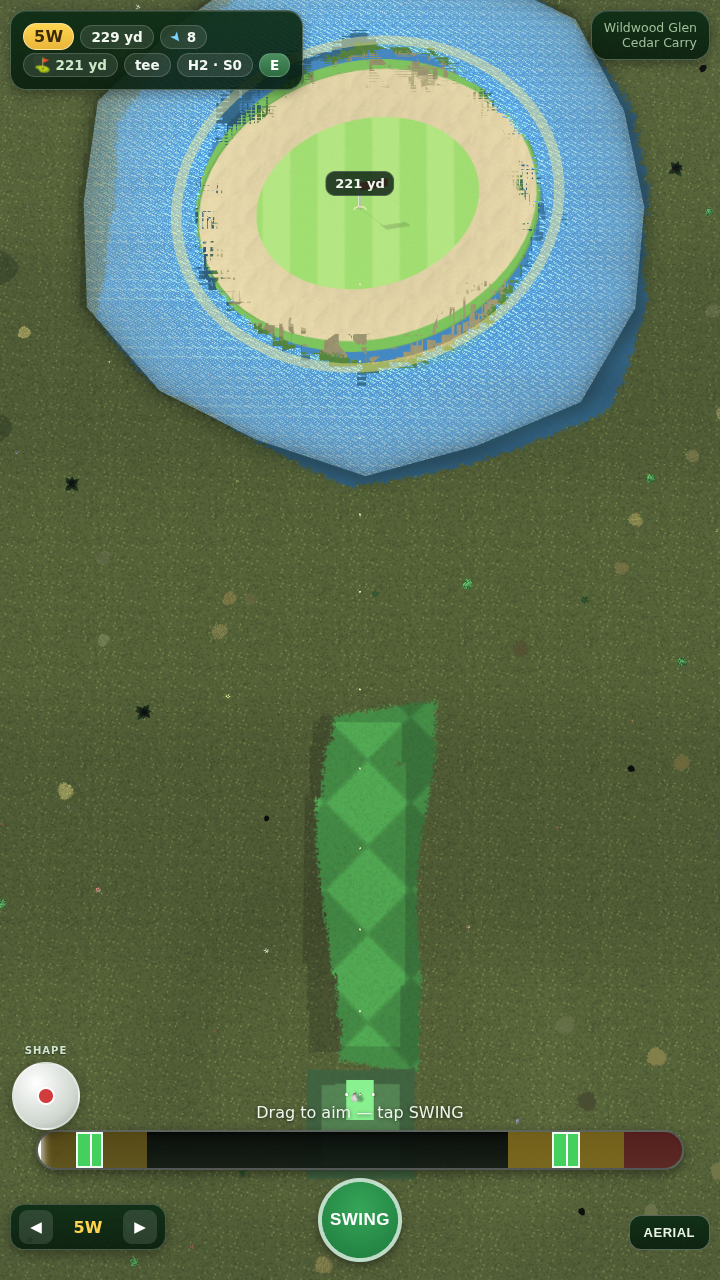
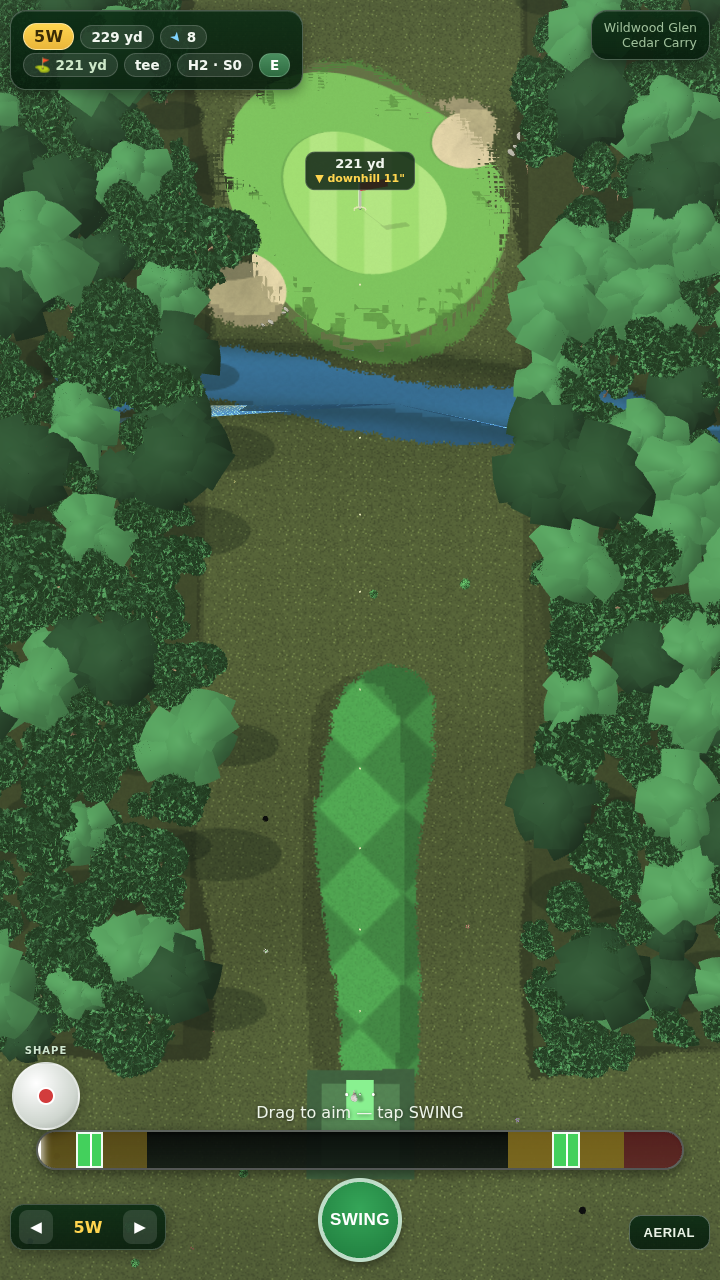
Irregular greens: shared boundary-wobble helper across physics, mesh, albedo, putt aids
Real greens aren't perfect circles or ovals. Add greenBoundaryScale/pointInGreen
to Geometry.ts — a deterministic low-harmonic radial wobble (k=2,3, |amp| <= 0.16)
seeded per-green so every consumer derives the identical star-convex boundary:
- PhysicsEngine.surfaceAt green + fringe tests -> pointInGreen
- course3d ellipseFactor (green plateau lift) divides by the wobble
- course3d green-complex mesh ring radii scale by the wobble
- CourseTexture rasterizer samples the wobbled edge as a 72-pt polygon for the
  green (id2) + fringe (id3) albedo, keeping drawn == played
- breakDots.insideGreen -> pointInGreen

All 184 unit tests + the per-course hole-out simulation gates stay green.

Claude-Session: https://claude.ai/code/session_01KxqmTSFoDcm3pdFotVf7rx

diff --git a/src/utils/Geometry.ts b/src/utils/Geometry.ts
@@ -37,6 +37,52 @@ export function pointInEllipse(
   return dx * dx + dy * dy <= 1;
 }
 
+/**
+ * Deterministic radial wobble factor for a green boundary at local angle
+ * `theta` (radians, measured in the green's own un-rotated frame). Real greens
+ * are not perfect circles or ovals — this multiplies the ellipse radius by
+ * `1 + Σ aᵢ·sin(kᵢθ+φᵢ)` over two low harmonics (k=2,3) so the edge undulates
+ * smoothly and stays star-convex + puttable (|wobble| ≲ 0.16). Amplitudes and
+ * phases are seeded from the green's own placement so EVERY consumer — the
+ * physics surface test, the albedo bake, the plateau mesh, the putt aids —
+ * derives the identical boundary and the sand drawn always matches the sand
+ * played.
+ */
+export function greenBoundaryScale(theta: number, e: EllipseArea): number {
+  const h1 = Math.sin(e.cx * 12.9898 + e.cy * 78.233 + (e.rot ?? 0) * 5.17) * 43758.5453;
+  const f1 = h1 - Math.floor(h1);
+  const h2 = Math.sin(e.cx * 39.3468 + e.cy * 11.135 + (e.rot ?? 0) * 2.71) * 24634.6345;
+  const f2 = h2 - Math.floor(h2);
+  const a2 = 0.055 + f1 * 0.05; // ~0.055..0.105
+  const a3 = 0.03 + f2 * 0.045; // ~0.03..0.075
+  const p2 = f1 * Math.PI * 2;
+  const p3 = f2 * Math.PI * 2;
+  return 1 + a2 * Math.sin(2 * theta + p2) + a3 * Math.sin(3 * theta + p3);
+}
+
+/**
+ * Point inside an irregular (wobbled) green, with optional margin added to both
+ * radii (for the fringe). Same rotated-ellipse test as `pointInEllipse` but the
+ * boundary radius is scaled by `greenBoundaryScale` at the point's angle, so the
+ * edge reads as a real green instead of a perfect ellipse. Star-convex boundary
+ * ⇒ the per-angle radius test is exact.
+ */
+export function pointInGreen(x: number, y: number, e: EllipseArea, margin = 0): boolean {
+  let px = x - e.cx;
+  let py = y - e.cy;
+  if (e.rot) {
+    const c = Math.cos(-e.rot);
+    const s = Math.sin(-e.rot);
+    const rx0 = px * c - py * s;
+    py = px * s + py * c;
+    px = rx0;
+  }
+  const dx = px / (e.rx + margin);
+  const dy = py / (e.ry + margin);
+  const w = greenBoundaryScale(Math.atan2(py, px), e);
+  return dx * dx + dy * dy <= w * w;
+}
+
 export function dist(a: Point, b: Point): number {
   return Math.hypot(a.x - b.x, a.y - b.y);
 }

diff --git a/src/core/rendering/CourseTexture.ts b/src/core/rendering/CourseTexture.ts
@@ -4,6 +4,7 @@ import { HoleData, Surface } from '../types';
 import { sampleGrassGrain } from './grassTexture';
 import { CHECKER_ROTATION, mowCheckerboard, mowStripe } from './mowPattern';
 import { CourseTheme, shade } from './Theme';
+import { greenBoundaryScale } from '../../utils/Geometry';
 
 // Tree blobs now live in a rendering-independent module so the physics engine
 // can share them for per-trunk collision. Re-exported here so existing
@@ -85,10 +86,27 @@ function rasterizeClassGrid(
     ctx.fill();
   };
   const g = hole.green;
+  // Irregular green boundary: sample the wobbled edge (the SAME shared wobble the
+  // physics test, plateau mesh, and putt aids use) as a fine polygon so the baked
+  // albedo of the green (id2) and its fringe (id3) match the surface played. A
+  // plain ctx.ellipse would draw a perfect oval the physics no longer agrees with.
   const ell = (margin: number): void => {
-    ctx.beginPath();
-    ctx.ellipse(g.cx, g.cy, g.rx + margin, g.ry + margin, g.rot ?? 0, 0, Math.PI * 2);
-    ctx.fill();
+    const rxx = g.rx + margin;
+    const ryy = g.ry + margin;
+    const c = Math.cos(g.rot ?? 0);
+    const s = Math.sin(g.rot ?? 0);
+    const N = 72;
+    const pts: number[][] = [];
+    for (let i = 0; i < N; i++) {
+      const th = (i / N) * Math.PI * 2;
+      const lx0 = Math.cos(th) * rxx;
+      const ly0 = Math.sin(th) * ryy;
+      const w = greenBoundaryScale(Math.atan2(ly0, lx0), g);
+      const lx = lx0 * w;
+      const ly = ly0 * w;
+      pts.push([g.cx + lx * c - ly * s, g.cy + lx * s + ly * c]);
+    }
+    poly(pts);
   };
   // Drawn in order; the LAST layer to paint a texel wins. The resulting
   // precedence must match PhysicsEngine.surfaceAt exactly:

diff --git a/src/slice3d/course3d.ts b/src/slice3d/course3d.ts
@@ -33,7 +33,7 @@ import {
 } from '../core/rendering/CourseTexture';
 import { CHECKER_ROTATION, mowCheckerboard } from '../core/rendering/mowPattern';
 import { CourseTheme, shade } from '../core/rendering/Theme';
-import { pointInPolygon } from '../utils/Geometry';
+import { greenBoundaryScale, pointInPolygon } from '../utils/Geometry';
 import { FRINGE_MARGIN, PhysicsEngine } from '../systems/PhysicsEngine';
 import { WALL_DEPTH } from '../systems/HeightField';
 import { HoleData } from '../core/types';
@@ -163,7 +163,9 @@ export interface Course3D {
 const GREEN_RAISE = 0.55;
 const TEE_TOP = 1.15;
 
-/** Ellipse "radius factor" — <=1 inside, grows outward; rotation-aware. */
+/** Irregular-green "radius factor" — <=1 inside, grows outward; rotation-aware.
+ *  Divides by the shared boundary wobble so the raised plateau (greenLift) follows
+ *  the SAME undulating edge the physics surface test and the albedo bake use. */
 function ellipseFactor(x: number, y: number, g: HoleData['green'], margin = 0): number {
   let px = x - g.cx;
   let py = y - g.cy;
@@ -176,7 +178,8 @@ function ellipseFactor(x: number, y: number, g: HoleData['green'], margin = 0): 
   }
   const dx = px / (g.rx + margin);
   const dy = py / (g.ry + margin);
-  return Math.sqrt(dx * dx + dy * dy);
+  const w = greenBoundaryScale(Math.atan2(py, px), g);
+  return Math.sqrt(dx * dx + dy * dy) / w;
 }
 
 /** Green plateau lift profile shared by the plateau mesh and groundHeightAt. */
@@ -379,8 +382,15 @@ export function buildCourse(
       uvs.push((wx - patch.x0) / patch.w, (wy - patch.y0) / patch.h);
     };
     const ringPoint = (theta: number, rxx: number, ryy: number): [number, number] => {
-      const lx = Math.cos(theta) * rxx;
-      const ly = Math.sin(theta) * ryy;
+      // Scale the ring radius by the shared boundary wobble at the point's ACTUAL
+      // local angle so the plateau/skirt mesh traces the same irregular edge the
+      // physics test and albedo bake use (star-convex ⇒ the scale cancels out of
+      // the angle, so mesh and point-in-green agree exactly).
+      const lx0 = Math.cos(theta) * rxx;
+      const ly0 = Math.sin(theta) * ryy;
+      const w = greenBoundaryScale(Math.atan2(ly0, lx0), g);
+      const lx = lx0 * w;
+      const ly = ly0 * w;
       const c = Math.cos(g.rot ?? 0);
       const s = Math.sin(g.rot ?? 0);
       return [g.cx + lx * c - ly * s, g.cy + lx * s + ly * c];

diff --git a/src/slice3d/breakDots.ts b/src/slice3d/breakDots.ts
@@ -10,6 +10,7 @@ import {
 import { isFrozen } from '../core/debugFlags';
 import { HoleData } from '../core/types';
 import { PhysicsEngine } from '../systems/PhysicsEngine';
+import { pointInGreen } from '../utils/Geometry';
 import { hash2 } from './natureModels';
 
 /**
@@ -73,18 +74,10 @@ export function buildBreakDots(
   const maxR = Math.max(g.rx, g.ry);
   const half = maxR + 6;
   const count = Math.max(150, Math.min(350, Math.round((Math.PI * g.rx * g.ry) / 40)));
-  const greenC = Math.cos(g.rot ?? 0);
-  const greenS = Math.sin(g.rot ?? 0);
-  // Is a world point inside the green (slightly inset from the fringe edge)?
-  const insideGreen = (wx: number, wy: number): boolean => {
-    const dx = wx - g.cx;
-    const dy = wy - g.cy;
-    const lx = greenC * dx + greenS * dy; // rotate into the green's own frame
-    const ly = -greenS * dx + greenC * dy;
-    const rx = g.rx - 2;
-    const ry = g.ry - 2;
-    return (lx * lx) / (rx * rx) + (ly * ly) / (ry * ry) <= 1;
-  };
+  // Is a world point inside the irregular green (slightly inset from the fringe
+  // edge)? Shares the wobble helper so the break-dot cloud clips to the SAME edge
+  // the green is drawn and played on.
+  const insideGreen = (wx: number, wy: number): boolean => pointInGreen(wx, wy, g, -2);
 
   // Soft round sprite shared by every dot.
   const tex = new DynamicTexture('breakDotTex', { width: 32, height: 32 }, scene, true);

diff --git a/src/systems/PhysicsEngine.ts b/src/systems/PhysicsEngine.ts
@@ -2,7 +2,7 @@ import { PHYSICS, PX_PER_YARD, RULES } from '../config';
 import { HeightField } from './HeightField';
 import { collectTreeBlobs, TreeBlob } from './treeField';
 import { gaussianOf, Rng } from '../utils/Random';
-import { clamp, dist, pointInEllipse, pointInPolygon } from '../utils/Geometry';
+import { clamp, dist, pointInGreen, pointInPolygon } from '../utils/Geometry';
 import {
   ClubSpec,
   Golfer,
@@ -252,13 +252,13 @@ export class PhysicsEngine {
   surfaceAt(x: number, y: number): Surface {
     const h = this.hole;
     const hz = h.hazards;
-    if (pointInEllipse(x, y, h.green)) return 'green';
+    if (pointInGreen(x, y, h.green)) return 'green';
     // Scoring bunkers win over fringe/water; a coastal BEACH band is deferred
     // until AFTER water so it only reads as sand where it sits on land.
     for (let i = 0; i < hz.length; i++) {
       if (hz[i].type === 'bunker' && !hz[i].beach && this.inHazard(i, x, y)) return 'sand';
     }
-    if (pointInEllipse(x, y, h.green, FRINGE_MARGIN)) return 'fringe';
+    if (pointInGreen(x, y, h.green, FRINGE_MARGIN)) return 'fringe';
     for (let i = 0; i < hz.length; i++) {
       if (hz[i].type === 'water' && this.inHazard(i, x, y)) return 'water';
     }